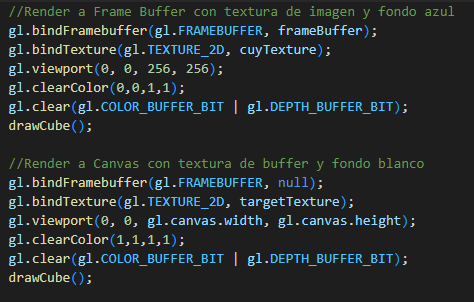
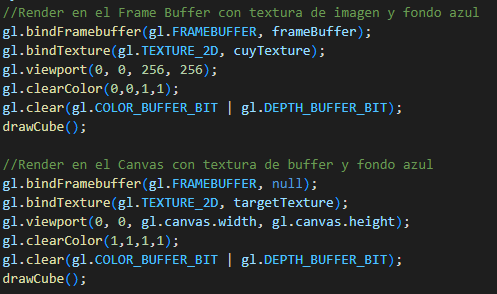
picking half

Changed region(s): [[0.0, 0.5204, 0.9156, 0.9796], [0.0, 0.0, 0.9747, 0.4592]]

diff --git a/index.html b/index.html
@@ -118,7 +118,7 @@
 
 
         <br><br><h2>Dibujar Varios Triángulos</h2>
-        <p>Si queremos dibujar más de un triángulo podemos encerrar gran parte del código que dibuja el triángulo dentro de un ciclo donde la posición de los vértices y los colores son definidos de manera aleatoria, esto significa que se llamara varias veces a la función drawArrays() también conocida como llamada de dibujo o draw call. Al hacer esto obtendremos una gran cantidad de triángulos en la pantalla</p>
+        <p>Si queremos dibujar más de un triángulo podemos encerrar gran parte del código que dibuja el triángulo dentro de un ciclo donde la posición de los vértices y los colores son definidos de manera aleatoria, esto significa que se llama varias veces a la función drawArrays() también conocida como llamada de dibujo o draw call. Al hacer esto obtendremos una gran cantidad de triángulos en la pantalla</p>
 
         <img src="./imgs/cycleTriangles.PNG"><br>
         <code>Código de dibujo de triángulos en un ciclo</code>
@@ -165,11 +165,11 @@
 
         <p>La <b>Rotación</b> es un poco más compleja debido a que es necesario definir una operación separada para girar sobre cada eje, estas son definidas de mejor manera utilizando una matriz de rotación la cual es multiplicada con el vector de posición de cada vértice, al aplicarse esta multiplicación sobre cada vértice obtendremos una rotación del objeto sobre un eje específico por el valor de un ángulo tetha. Las 3 matrices se multiplican entre si para definir una sola matriz de rotación a la cual se le pasa un solo vector (Rx, Ry, Rz) como parámetro que define el ángulo de rotación en cada eje.</p>
         <img src="./imgs/rots.png"><br>
-        <code>Matrices de Rotacion para cada eje</code>
+        <code>Matrices de Rotación para cada eje</code>
         
         <p>Las operaciones de Translación y Escalado también pueden definirse como matrices gracias a la forma como se realiza la multiplicación de un vector por una matriz.</p>
         <img src="./imgs/mats.png"><br>
-        <code>Matrices de Trasnlacion y Escalado</code>
+        <code>Matrices de Translación y Escalado</code>
         
         <p>De esta manera al tener las operaciones como matrices podemos finalmente multiplicar todas las 5 matrices para definir una sola Matriz de Transformación, esta recibe como parámetros el movimiento en [X,Y,Z], el escalado en [X,Y,Z] y la rotación en [X,Y,Z] realizando estas 3 transformaciones en una sola operación.</p>
         <img src="./imgs/transform.PNG"><br>
@@ -229,7 +229,7 @@
     <section>
         <hr>
         <h2>Múltiples Objetos Animados</h2>
-        <p>Anteriormente hemos visto que para dibujar varios objetos dentro del mismo entorno podemos definir todos los vértices de todos los objetos dentro del mismo buffer de geometría, o también podemos usar múltiples llamados de dibujo con el mismo buffer aplicando cambios en cada uno de los objetos con diferentes matrices de movimiento. Sin embargo, para WebGL no existe ninguna diferencia entre estos objetos, la librería no guarda ninguna referencia con respecto a su posición, buffer de geometría, color o cualquier otra información de cada objeto, por esta razón para fácilmente dibujar y manipular varios objetos es necesario definir una variable que almacene en formato JSON la información de cada uno de los objetos 3D como el buffer que define su geometría, color, numero de vértices, posición, textura y cualquier otra propiedad que pueda ser únicamente de ese objeto.</p>
+        <p>Anteriormente hemos visto que para dibujar varios objetos dentro del mismo entorno podemos definir todos los vértices de todos los objetos dentro del mismo buffer de geometría, o también podemos usar múltiples llamados de dibujo con el mismo buffer aplicando cambios en la matriz de transformacion de cada uno de los objetos. Sin embargo, para WebGL no existe ninguna diferencia entre estos objetos, la librería no guarda ninguna referencia con respecto a su posición, buffer de geometría, color o cualquier otra información de cada objeto, por esta razón para fácilmente dibujar y manipular varios objetos es necesario definir una variable que almacene en formato JSON la información de cada uno de los objetos 3D en el entorno, información como el buffer que define su geometría, color, numero de vértices, posición, textura y cualquier otra propiedad que pueda ser únicamente de ese objeto.</p>
         <img src="./imgs/objs.png"><br>
         <code>Declaración de cada Objeto 3D y sus propiedades con información definida y aleatoria.</code>
 
@@ -257,7 +257,7 @@
         <img src="./imgs/texture.PNG"><br>
         <code>Creación de una variable de textura</code>
 
-        <p>Posteriormente para proyectarlas sobre la geometría de un objeto es necesario definir las coordenadas de la textura como un vector en 2 dimensiones que define la posición de cada vértice sobre la imagen, esta información es conocida como las coordenadas UV del objeto y pueden ser definidas dentro de un buffer.</p>
+        <p>A continuación para proyectar la textura sobre la geometría de un objeto es necesario definir las coordenadas de cada vertice sobre la imagen como un vector en 2 dimensiones [U,V], este vector define la posición de un vértice sobre la imagen y esta información en conjunto es conocida como las coordenadas UV del objeto, estas pueden ser definidas dentro de un buffer que se pasara luego al fragment shader.</p>
         <img src="./imgs/bufferUV.PNG"><br>
         <code>Buffer con las coordenadas UV del objeto</code>
 
@@ -270,13 +270,13 @@
 
 
         <h2>Renderización a una Textura con FrameBuffer</h2>
-        <p> Las texturas definidas en WebGL pueden ser imágenes cargadas como elementos de HTML (como en el anterior ejemplo) o también pueden ser generadas dinámicamente dentro de JavaScript, este tipo de texturas dinámicas nos permiten calcular información de la escena y reutilizarla dentro de esta misma para ayudar con diferentes tipos de funcionalidades.
-            Un ejemplo de esto es la capacidad de renderizar una escena dentro de una textura que posteriormente puede ser mapeada dentro de otro objeto, para hacer esto declaramos inicialmente una textura cuyo valor será vacío por el momento.
+        <p> Las texturas definidas en WebGL pueden ser imágenes cargadas como elementos de HTML (como en el anterior ejemplo) o también pueden ser generadas dinámicamente dentro de JavaScript, este tipo de texturas dinámicas nos permiten calcular información de la escena para reutilizarla dentro de esta misma lo cual puede ayudar con el desarrollo de diferentes tipos de funcionalidades.
+            Un ejemplo de esto es la capacidad de renderizar una escena dentro de una textura que posteriormente puede ser mapeada sobre un objeto, para hacer esto declaramos inicialmente una textura cuyo valor será vacío por el momento.
         </p>
         <img src="./imgs/targetTex.png"><br>
         <code>Textura vacia donde se renderizara la escena</code>
 
-        <p> A continuación crearemos un Frame Buffer el cual es un objeto donde se puede renderizar una escena, por defecto WebGL utiliza un frame buffer que renderiza sobre el Canvas y al crear otro frame buffer configurado a una textura evitamos que se renderice sobre el Canvas y nos aseguramos de que el render se realice sobre esta textura
+        <p> A continuación crearemos un Frame Buffer, este buffer es un objeto utilizado para definir donde se renderiza una escena, por defecto WebGL utiliza un frame buffer que renderiza sobre el Canvas y al crear otro frame buffer configurado a una textura evitamos que se renderice sobre el Canvas y nos aseguramos de que el render se realice sobre esta textura
         </p>
         <img src="./imgs/frameBuffer.PNG"><br>
         <code>Frame Buffer configurado con la textura anterior</code>
@@ -292,17 +292,40 @@
     </section>
     <section>
         <h2>Seleccion de Objetos con Mouse</h2>
-        <p> Para finzalizar utilizaremos los conceptos aprendidos anteriormente para desarrollar una funcionalidad de picking o seleccion de objetos con el mouse, esta funcionalidad es muy utilizada e importante dentro de la interaccion en espacios tridimiensionales y su implementación sintetiza una gran parte de las ideas exploradas.</p>
+        <p> Para finzalizar utilizaremos los conceptos aprendidos anteriormente para desarrollar una funcionalidad de picking o seleccion de objetos con el mouse, esta funcionalidad es muy importante para la interaccion del usuario con los espacios tridimiensionales renderizados y su implementación sintetiza una gran parte de las ideas exploradas.</p>
         <p> La implementación utiliza una tecnica que consiste en renderizar la escena 2 veces, el primer rénder se realiza sobre él canvas con la configuración del fragment shader que se desea presentar al usuario, una segunda renderización se hace sobre una textura invisible la cual utiliza un fragment shader muy simple que pinta cada objeto de un color especifico, este color esta predefinido según el ID del objeto por lo que cada objeto esta pintado de un color diferente. 
-            Si rastreamos la posicion del mouse y leemos el color del pixel sobre el que se encuentra actualmente podemos usar esta informacion para obtener el ID del objeto y a partir de esto referenciarlo en la lista de objetos.</p>
+            Si rastreamos la posicion del mouse y leemos el color del pixel sobre el que se encuentra actualmente el puntero podemos usar esta informacion para obtener el ID del objeto y a partir de esto referenciarlo en la lista de objetos de la escena.</p>
         <p>Para desarrollar esto necesitamos definir 2 programas de WebGL, uno con la configuración necesaria para renderizar la escena y otro con un fragment shader muy simple que reciba un color como uniforme de manera que pinte todo el objeto de este color.</p>
         <img src="./imgs/pickerShader.PNG"><br>
         <code>Fragment Shader que pinta el objeto de un color</code>
 
-        <p>Definimos una textura sobre la cual renderizaremos la escena utilizando un FrameBuffer y definimos un RenderBuffer que nos permita utilizar la información del mapa de profundidad generado por WebGL para siempre seleccionar el primer objeto visible. </p>
+        <p> Cada objeto que agregamos utilizara su posicion en la lista para crear un color unico a partir de una serie de pequeñas operaciones de corrimiento de bits, esto nos permitira agregar una gran cantidad de objetos con colores unicos mientras al mismo tiempo esta operacion puede ser facilmente invertida para obtener la posicion original en la lista que referencia al objeto.
+            Para visualizar la seleccion tambien agregaremos una propiedad llamada multiplicador de color, este se pasara al fragment shader visible por el usuario y multiplicara el valor del color a dibujar para cambiar su apariencia.
+        </p>
+        <img src="./imgs/objsPick.PNG"><br>
+        <code>Definicion del color unico como propiedad del objeto</code>
+        
+        <p>Para renderizar la escena con esta informacion primero definimos una textura que asignaremos a un FrameBuffer e igualmente crearemos un RenderBuffer, este ultimo buffer nos permite utilizar la información del mapa de profundidad generado por WebGL para siempre seleccionar el primer objeto visible. </p>
         <img src="./imgs/pickerBuffer.PNG"><br>
         <code>Textura, Render Buffer y Frame Buffer para renderizar la escena fuera del canvas</code>
-        <canvas id="canvas_17" width="800" height="600"></canvas><br>
+        
+        <p> Al igual que en el ejemplo anterior renderizaremos la escena 2 veces, una hacia el Buffer de textura con la configuracion de los shaders del seleccionador, y otra hacia el canvas con la configuracion de los shaders de presentacion al usuario. 
+            Dentro del ciclo de dibujo nos aseguraremos de utilizar los atributos y uniformes correcta segun los shaders que se esten utilizando.
+        </p>
+        <img src="./imgs/drawCyclePicker.PNG"><br>
+        <code>Renderización con ambas configuraciones</code><br><br><br>
+
+        <img src="./imgs/shadersIfPicker.PNG"><br>
+        <code>Seleccion de uniformes y atributos segun el shader</code><br>
+
+        <p> Para finalizar, Antes de renderizar el picker obtendremos la posicion del mouse en el canvas, leeremos el color del pixel que se esta señalando y finalmente calcularemos la referencia del objeto a partir del color.
+            Esto nos permitira hacer un pequeño cambio de color cuando se esta seleccionando el objeto.
+        </p>
+        <img src="./imgs/mousePicker.PNG"><br>
+        <code>Interaccion entre mouse y canvas</code>
+
+        <canvas id="canvas_18" width="800" height="600"></canvas>
+        <code>Seleccion de Objetos con el mouse</code>
     </section>
     
 
@@ -328,8 +351,9 @@
     <script src="./10-3DAnimado.js"></script>
     <script src="./11-3DMultiplesObjetosAnimados.js"></script>
     <script src="./12-3DMultiplesTiposdeObjetosAnimados.js"></script>
-    <script src="./13-3DTexturaAnimada.js"></script>
-    <script src="./17-3DRenderToTextureDepth.js"></script>
-    <script src="./18-PICKING.js"></script>
+    <script src="./13-3DObjetoConTextura.js"></script>
+    <script src="./14-RenderSobreTextura.js"></script>
+    <script src="./15-PICKINGNoOpt.js"></script>
+    
 </body>
 </html>

diff --git a/15-PICKINGNoOpt.js b/15-PICKINGNoOpt.js
@@ -55,7 +55,7 @@ main();
 
 function main(){
     //Cargar el canvas y los shaders
-    var canvas = document.getElementById("canvas_17");
+    var canvas = document.getElementById("canvas_18");
     var gl = canvas.getContext("webgl");
     var program = createProgramFromShaders(gl, vert_shader, frag_shader);
     var programPicker = createProgramFromShaders(gl, vert_shader_picker, frag_shader_picker);
@@ -73,32 +73,20 @@ function main(){
         mouseX = e.clientX - rect.left;
         mouseY = e.clientY - rect.top;
     });
-    //Obtener un Frustum de un solo pixel
-    function getMousePixelFrustum(){
-        const aspect = gl.canvas.clientWidth / gl.canvas.clientHeight;  
-        const top = Math.tan(fov * 0.5) * near;
-        const bottom = -top;
-        const left = aspect * bottom;
-        const right = aspect * top;
-        const width = Math.abs(right - left);
-        const height = Math.abs(top - bottom);
-
+    //Obetener el color del pixel sobre el mouse y el ID del objeto
+    function getObjectFromPixel(){
+        //Obtener posicion del mouse en el canvas
         const pixelX = mouseX * w / gl.canvas.clientWidth;
         const pixelY = h - mouseY * h / gl.canvas.clientHeight - 1;
-        const subLeft = left + pixelX * width / w;
-        const subBottom = bottom + pixelY * height / h;
-        const subRight = subLeft + (width / w);
-        const subTop = subBottom + (height / h);
-        const frustumMatrix = matFrustum(subLeft, subRight, subBottom, subTop, near, far)
 
-        return frustumMatrix;
-    }
-    //Obetener un objeto a partir del color del pixel
-    function getObjectFromPixel(){
+        //Leer color en esa posicion
         const data = new Uint8Array(4);
-        gl.readPixels(0, 0, 1, 1, gl.RGBA, gl.UNSIGNED_BYTE, data);
+        gl.readPixels(pixelX, pixelY, 1, 1, gl.RGBA, gl.UNSIGNED_BYTE, data);
+
+        //Calcular ID a partir del color
         const id = data[0] + (data[1] << 8) + (data[2] << 16) + (data[3] << 24);
 
+        //Visualizacion de la seleccion
         if (oldPickNdx >= 0) {
             objs[oldPickNdx].colorMult = [1,1,1,1];
             oldPickNdx = -1;
@@ -111,7 +99,6 @@ function main(){
             objs[pickNdx].colorMult = [1,1,0,1];
             canvas.style.cursor = "pointer";
         }
-
     }
 
     //------- OBJETOS EN LA ESCENA --------
@@ -120,24 +107,21 @@ function main(){
     var positionAttributeLocation = gl.getAttribLocation(programPicker, "a_position")
     var colorAttributeLocation = gl.getAttribLocation(program, "a_color")
     
-    //Crear Buffers Buffers
+    //Crear Buffers 
     var cubePosBuffer = gl.createBuffer()
     gl.bindBuffer(gl.ARRAY_BUFFER, cubePosBuffer);
     gl.bufferData(gl.ARRAY_BUFFER, new Float32Array(create3DCube()), gl.STATIC_DRAW);
-
     var cubeColBuffer = gl.createBuffer()
     gl.bindBuffer(gl.ARRAY_BUFFER, cubeColBuffer);
     gl.bufferData(gl.ARRAY_BUFFER, new Float32Array(create3DCubeColors()), gl.STATIC_DRAW);
-
     var fPosBuffer = gl.createBuffer()
     gl.bindBuffer(gl.ARRAY_BUFFER, fPosBuffer);
     gl.bufferData(gl.ARRAY_BUFFER, new Float32Array(create3DF()), gl.STATIC_DRAW);
-
     var fColBuffer = gl.createBuffer()
     gl.bindBuffer(gl.ARRAY_BUFFER, fColBuffer);
     gl.bufferData(gl.ARRAY_BUFFER, new Float32Array(create3DFColors()), gl.STATIC_DRAW);
 
-    //Crear Objetos y añadirlos a la lista
+    //Crear Objetos de diferentes tipos y añadirlos a la lista
     var objs = []
     for(var i=0; i<15; i++){
         const id1 = (i*2)+1
@@ -175,19 +159,14 @@ function main(){
         });
     }
 
-    //Declarar Matriz de Perspectiva (Near, Far, FOV) 
-    var near = 0.01;
-    var far = 100;
-    var fov = 1.6; 
-    const perspectiveMatrix = matPerspectiveAspect(near, far, fov, aspect);
-
-    //Declarar Matriz de Vista (Near, Far, FOV)
+    //Declarar Matrices de Perspectiva (Near, Far, FOV) y Vista (Tx,Ty,Tz, Rx,Ry, Zoom)
+    const perspectiveMatrix = matPerspectiveAspect(0.01, 100, 1.6, aspect);
     const viewMatrix = getMatrix3DView(0, 0, 0,   -0.5, 1.5,  2.5);
     
     //Definir parametros de renderizado y pantalla
     gl.clearColor(1,1,1,1);
+    gl.viewport(0, 0, w, h);
     gl.enable(gl.DEPTH_TEST) 
-
 
 
     //------ RENDER Y FRAME BUFFERS ------
@@ -209,60 +188,57 @@ function main(){
     gl.renderbufferStorage(gl.RENDERBUFFER, gl.DEPTH_COMPONENT16, w, h);
     gl.framebufferRenderbuffer(gl.FRAMEBUFFER, gl.DEPTH_ATTACHMENT, gl.RENDERBUFFER, depthBuffer);
     
-    //-------- DRAW --------
-    var ticker = 0;
+
+    //-------- CICLO DE DIBUJO --------
     requestAnimationFrame(draw);
     function draw(){
-        ticker += 0.01
-
-        //Definir matriz de transformacion y animar el movimiento
+        //Animar el movimiento una sola vez
         objs.forEach((obj) => {
-            obj.uniforms.u_matrix_transform = getMatrix3DTransform(
-            obj.pos.x, obj.pos.y, obj.pos.z,   
-            obj.scl.x, obj.scl.y, obj.scl.z,
-            obj.rot.x + ticker, obj.rot.y + ticker, obj.rot.z);
+            obj.rot.x += 0.01;
+            obj.rot.y += 0.02;
         })
 
         //Renderizar sobre el buffer con los shaders del picker
-        const frustumMatrix = getMousePixelFrustum();
         gl.bindFramebuffer(gl.FRAMEBUFFER, frameBuffer);
-        gl.viewport(0, 0, w, h);
-        drawObjs(programPicker, frustumMatrix, true);
+        drawObjs(programPicker, true);
         
-        //Renderizar sobre el buffer con los shaders de presentacion
+        //Renderizar sobre el canvas con los shaders de presentacion
         getObjectFromPixel();
         gl.bindFramebuffer(gl.FRAMEBUFFER, null);
-        gl.viewport(0, 0, w, h);
-        drawObjs(program, perspectiveMatrix, false);
+        drawObjs(program, false);
         requestAnimationFrame(draw);
     }
 
-    function drawObjs(program, pMatrix, onCanvas){
+    function drawObjs(program, onCanvas){
         //Refrescar la pantalla
         gl.useProgram(program);
         gl.clear(gl.COLOR_BUFFER_BIT | gl.DEPTH_BUFFER_BIT);
 
         objs.forEach((obj) =>{
-            //---Atributos y Uniformes comunes de ambos programas---
-            //Atributo de Posicion
+            //Atributo de Posicion comun en ambos shaders
             gl.bindBuffer(gl.ARRAY_BUFFER, obj.bufferPos);
             gl.enableVertexAttribArray(positionAttributeLocation);
             gl.vertexAttribPointer(positionAttributeLocation, 3, gl.FLOAT, false, 0, 0); 
-            //Uniformes con Matrices de Transformacion, Vista y Perspectiva
+
+            //Uniformes con Matrices de Transformacion, Vista y Perspectiva comunes en ambos shaders
             var transUniformLocation = gl.getUniformLocation(program, "u_matrix_transform");
+            obj.uniforms.u_matrix_transform = getMatrix3DTransform(
+                obj.pos.x, obj.pos.y, obj.pos.z,   
+                obj.scl.x, obj.scl.y, obj.scl.z,
+                obj.rot.x, obj.rot.y, obj.rot.z);
             gl.uniformMatrix4fv(transUniformLocation, false, obj.uniforms.u_matrix_transform);
             var perspectiveUniformLocation = gl.getUniformLocation(program, "u_matrix_perspective")
-            gl.uniformMatrix4fv(perspectiveUniformLocation, false, pMatrix);
+            gl.uniformMatrix4fv(perspectiveUniformLocation, false, perspectiveMatrix);
             var viewUniformLocation = gl.getUniformLocation(program, "u_matrix_view");
             gl.uniformMatrix4fv(viewUniformLocation, false, viewMatrix);
 
-            //---Atributos y Uniformes segun el programa---
+            //---Atributos y Uniformes segun el shader---
             if(onCanvas){
                 //Color identificador para el picker
                 var idUniformLocation = gl.getUniformLocation(program, "u_id");
                 gl.uniform4fv(idUniformLocation, obj.i);
             }else{
-                //Colores y Multiplicador para el de presentacion
+                //Colores y Multiplicador para la presentacion
                 gl.bindBuffer(gl.ARRAY_BUFFER, obj.bufferCol);
                 gl.enableVertexAttribArray(colorAttributeLocation);
                 gl.vertexAttribPointer(colorAttributeLocation, 3, gl.FLOAT, false, 0, 0); 
@@ -270,7 +246,6 @@ function main(){
                 gl.uniform4fv(colmultUniformLocation, obj.colorMult); 
             }
 
-            //Llamada de dibujo
             gl.drawArrays(gl.TRIANGLES, 0, 100)
         })
     }    

diff --git a/14-RenderSobreTextura.js b/14-RenderSobreTextura.js
@@ -61,7 +61,7 @@ function main(){
     gl.enableVertexAttribArray(positionAttributeLocation);
     gl.vertexAttribPointer(positionAttributeLocation, 3, gl.FLOAT, false, 0, 0);
 
-    //Define View Matrix
+    //Crear Uniforme con Matriz de Perspectiva (Near, Far, FOV)
     const viewMatrix = getMatrix3DView(0, 0, 0,   -0.5, 0,  1);
     var viewUniformLocation = gl.getUniformLocation(program, "u_matrix_view");
     gl.uniformMatrix4fv(viewUniformLocation, false, viewMatrix);
@@ -91,16 +91,12 @@ function main(){
     gl.texParameteri(gl.TEXTURE_2D, gl.TEXTURE_MIN_FILTER, gl.NEAREST);
     gl.texImage2D(gl.TEXTURE_2D, 0, gl.RGBA, 256, 256, 0, gl.RGBA, gl.UNSIGNED_BYTE, null);
 
-
-
-    //-------DEFINIR FRAME y RENDER BUFFERS-------
-    //frame buffer
+    //Definir frame buffer
     var frameBuffer = gl.createFramebuffer();
     gl.bindFramebuffer(gl.FRAMEBUFFER, frameBuffer);
     gl.framebufferTexture2D(gl.FRAMEBUFFER, gl.COLOR_ATTACHMENT0, gl.TEXTURE_2D, targetTexture, 0)
           
-    
-    //-------- DEFINE SCREEN --------
+    //Definir Propiedades de la Pantalla y Modo de Renderizacion
     gl.enable(gl.DEPTH_TEST) 
     gl.enable(gl.CULL_FACE)  
     
@@ -108,10 +104,9 @@ function main(){
     //-------- DRAW --------
     var Ry = 0;
     requestAnimationFrame(anim);
-
     function anim(){
         Ry += 0.01;
-        //Render a Frame Buffer con textura de imagen y fondo azul
+        //Render en el Frame Buffer con textura de imagen y fondo azul
         gl.bindFramebuffer(gl.FRAMEBUFFER, frameBuffer);
         gl.bindTexture(gl.TEXTURE_2D, cuyTexture);
         gl.viewport(0, 0, 256, 256);
@@ -119,7 +114,7 @@ function main(){
         gl.clear(gl.COLOR_BUFFER_BIT | gl.DEPTH_BUFFER_BIT);
         drawCube();
 
-        //Render a Canvas con textura de buffer y fondo azul
+        //Render en el Canvas con textura de buffer y fondo azul
         gl.bindFramebuffer(gl.FRAMEBUFFER, null);
         gl.bindTexture(gl.TEXTURE_2D, targetTexture);
         gl.viewport(0, 0, gl.canvas.width, gl.canvas.height);
@@ -134,13 +129,17 @@ function main(){
         //Define Perspective Matrix
         for(var i=0; i<3; i++){
             aspect = gl.canvas.width/gl.canvas.height
+            //Cargar Uniforme (Matriz de Perspectiva) segun aspecto del render (near, far, fov, aspect)
             const perspectiveMatrix = getMatrix3DPerspective(0.01, 100, 0.85, aspect);
             var perspectiveUniformLocation = gl.getUniformLocation(program, "u_matrix_perspective")
             gl.uniformMatrix4fv(perspectiveUniformLocation, false, perspectiveMatrix);
 
+            //Cargar Uniforme (Matriz de Tranformacion) cambiante (Tx,Ty,Tz, Sx,Sy,Sz, Rx,Ry,Rz)
             const transformMatrix = getMatrix3DTransform(-0.5+(i/2), -0.5+(i/2), 0,   1.5, 1.5, 1.5,   0, Ry, 0);
             var translateUniformLocation = gl.getUniformLocation(program, "u_matrix_transform")
             gl.uniformMatrix4fv(translateUniformLocation, false, transformMatrix);
+            
+            //Dibujar todos los triangulos del objeto en un solo Draw Call
             gl.drawArrays(gl.TRIANGLES, 0, cube.length/3)
         }
     }
